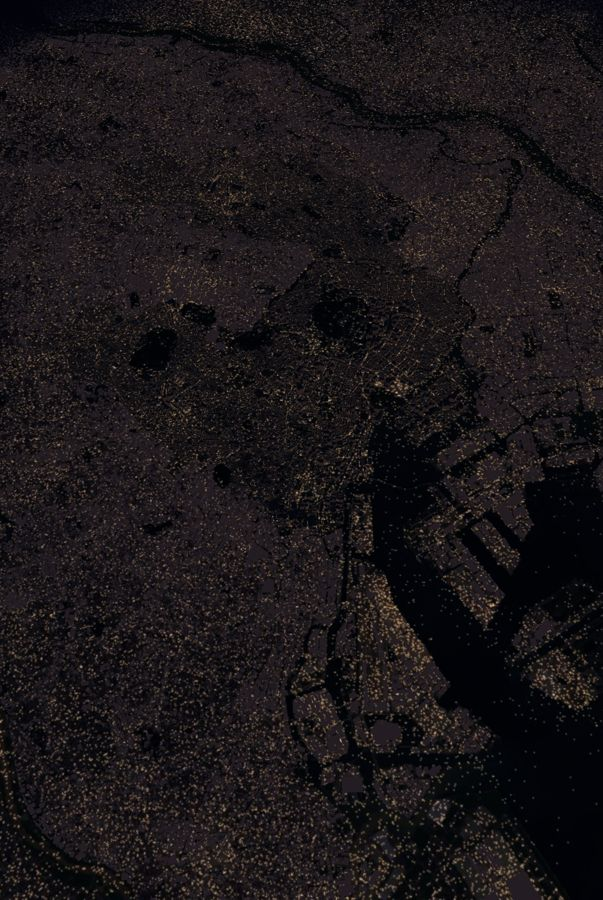
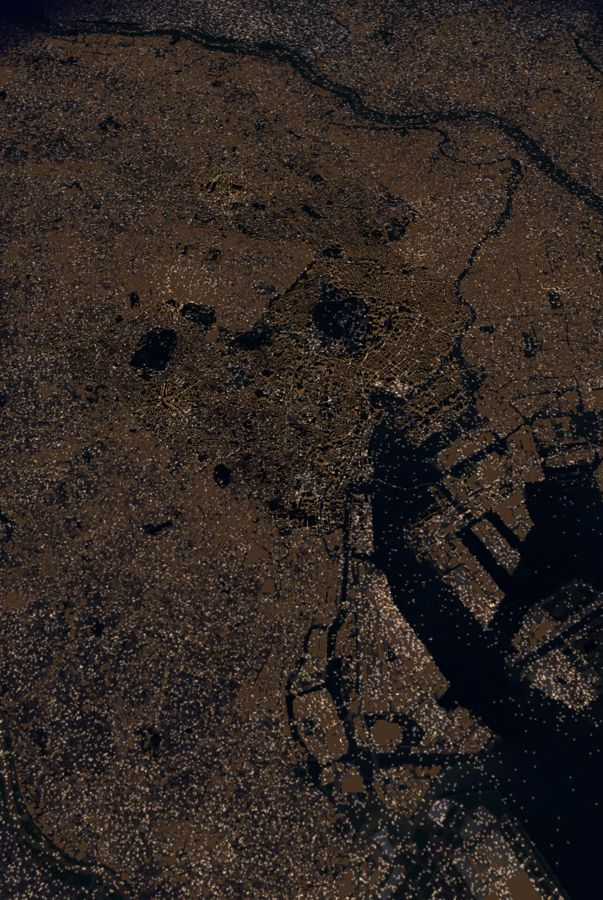
o-9 カメラが遠いほど窓の発光と地面を強め、外壁を暖色に寄せて俯瞰でも街の形が見えるようにする

diff --git a/App/Views/WideCityRenderer.swift b/App/Views/WideCityRenderer.swift
@@ -68,7 +68,8 @@ final class WideCityRenderer {
         for model in Self.models(in: loaded) {
             guard var component = model.model else { continue }
             let hasUV = component.mesh.contents.models.contains { $0.parts.contains { $0.textureCoordinates != nil } }
-            let material = hasUV ? windows : Self.plainMaterial
+            let material = hasUV ? windows : Self.plainMaterial(level: 0)
+            model.components.set(WideWallKind(hasUV: hasUV))
             component.materials = Array(repeating: material, count: max(component.materials.count, 1))
             model.model = component
         }
@@ -89,18 +90,50 @@ final class WideCityRenderer {
     /// 広域で使う外壁の種類（BuildingFacade のオフィス・商業以外の標準の外壁）
     private static let facade = BuildingFacade(style: .neutral, variant: 0)
 
+    /// 明るさの段階（WideCityBrightness）ごとの材質。段階が変わったときだけ作る
+    private var wallMaterials: [String: PhysicallyBasedMaterial] = [:]
+
+    /// 壁の材質。level 0 は詳細画面と同じ、1 は 23 区全体を見るとき。窓の材質がまだできていなければ nil
+    func wallMaterial(hasUV: Bool, level: Float) -> PhysicallyBasedMaterial? {
+        let key = "\(hasUV)-\(level)"
+        if let cached = wallMaterials[key] { return cached }
+        guard hasUV else {
+            let plain = Self.plainMaterial(level: level)
+            wallMaterials[key] = plain
+            return plain
+        }
+        guard var made = material else { return nil }
+        made.emissiveIntensity *= WideCityBrightness.mix(1, WideCityBrightness.farWindowGlow, level)
+        made.baseColor.tint = Self.wallTint(level: level)
+        wallMaterials[key] = made
+        return made
+    }
+
+    /// BuildingNightRenderer の夜の色（0.55, 0.64, 0.75）から、遠いほど暗い暖色に寄せた色。外壁の画像に掛ける
+    private static func wallTint(level: Float) -> UIColor {
+        let far = WideCityBrightness.farWallTint
+        return UIColor(red: CGFloat(WideCityBrightness.mix(nightTint.red, far.red, level)),
+                       green: CGFloat(WideCityBrightness.mix(nightTint.green, far.green, level)),
+                       blue: CGFloat(WideCityBrightness.mix(nightTint.blue, far.blue, level)), alpha: 1)
+    }
+
+    /// BuildingNightRenderer.facade が外壁の画像に掛けている夜の色
+    private static let nightTint = (red: Float(0.55), green: Float(0.64), blue: Float(0.75))
+
     /// UV の無い形（作り直していない区と LOD2）の材質。窓の画像は貼れないので、BuildingNightRenderer の外壁の色
-    /// （BuildingFacade の外壁 × BuildingNightRenderer の夜の色 0.55, 0.64, 0.75）と、窓明かりを平均したくらいの弱い暖色の光にする
-    private static var plainMaterial: PhysicallyBasedMaterial {
+    /// （BuildingFacade の外壁 × 夜の色）と、窓明かりを平均したくらいの弱い暖色の光にする
+    private static func plainMaterial(level: Float) -> PhysicallyBasedMaterial {
         var material = PhysicallyBasedMaterial()
         let wall = UIColor(cgColor: facade.wall)
         var r: CGFloat = 0, g: CGFloat = 0, b: CGFloat = 0
         wall.getRed(&r, green: &g, blue: &b, alpha: nil)
-        material.baseColor = .init(tint: UIColor(red: r * 0.55, green: g * 0.64, blue: b * 0.75, alpha: 1))
+        var tr: CGFloat = 0, tg: CGFloat = 0, tb: CGFloat = 0
+        wallTint(level: level).getRed(&tr, green: &tg, blue: &tb, alpha: nil)
+        material.baseColor = .init(tint: UIColor(red: r * tr, green: g * tg, blue: b * tb, alpha: 1))
         material.roughness = .init(floatLiteral: 0.85)
         material.metallic = .init(floatLiteral: 0)
         material.emissiveColor = .init(color: UIColor(red: 0.68, green: 0.47, blue: 0.23, alpha: 1))
-        material.emissiveIntensity = plainGlow
+        material.emissiveIntensity = plainGlow * WideCityBrightness.mix(1, WideCityBrightness.farPlainGlow, level)
         material.faceCulling = .none
         return material
     }

diff --git a/App/Views/WideCityBrightness.swift b/App/Views/WideCityBrightness.swift
@@ -1,0 +1,60 @@
+import RealityKit
+import SwiftUI
+
+/// カメラが遠いほど街を明るく見せる。近景は詳細画面と同じ見た目のまま、23 区全体を見るときは窓の発光・地面を強め、
+/// 窓の点がつぶれて見えなくなるぶん、外壁の色を窓の平均の色（暗い暖色）に寄せて、建物の塊が光って見えるようにする。
+/// 段階に分けて、段階が変わったときだけ材質の係数を書き換える（毎フレームは作り直さない）。
+@MainActor
+enum WideCityBrightness {
+    /// この距離（1 単位 = 100m）より近ければ詳細画面と同じ（level 0）。全体が入る距離で level 1
+    static let nearDistance: Float = 10
+    static let farDistance: Float = 300
+    private static let steps = 12
+    /// 全体を見るときの、窓の発光・地面の明るさの倍率。窓の画像は遠くで縮むと点が混ざって暗く見えるので、
+    /// UV の無い区（窓の平均の色で一様に光る）より大きくして、並んだときの明るさをそろえる
+    static let farWindowGlow: Float = 4.5
+    static let farPlainGlow: Float = 3
+    static let farGroundGlow: Float = 2
+    /// 全体を見るときに外壁の色を寄せる先（BuildingFacade の外壁に掛ける色。窓の暖色に近い）
+    static let farWallTint = (red: Float(1.0), green: Float(0.82), blue: Float(0.58))
+    static let groundName = "wideGround"
+
+    /// カメラの距離から段階（0 〜 steps）
+    static func step(cameraDistance: Float) -> Int {
+        let t = (cameraDistance - nearDistance) / (farDistance - nearDistance)
+        return Int((min(max(t, 0), 1) * Float(steps)).rounded())
+    }
+
+    static func level(step: Int) -> Float { Float(step) / Float(steps) }
+
+    /// 建物と地面の材質の係数を、その段階のものに書き換える
+    static func apply(step: Int, buildings: Entity, ground: Entity?) {
+        let t = level(step: step)
+        for model in WideCityRenderer.models(in: buildings) {
+            guard let kind = model.components[WideWallKind.self], var component = model.model,
+                  let material = WideCityRenderer.shared.wallMaterial(hasUV: kind.hasUV, level: t) else { continue }
+            component.materials = Array(repeating: material, count: max(component.materials.count, 1))
+            model.model = component
+        }
+        if let ground = ground as? ModelEntity, var component = ground.model,
+           var material = component.materials.first as? PhysicallyBasedMaterial {
+            material.emissiveIntensity = 1 + (farGroundGlow - 1) * t
+            component.materials = [material]
+            ground.model = component
+        }
+    }
+
+    /// 線形に近づける（a → b）
+    static func mix(_ a: Float, _ b: Float, _ t: Float) -> Float { a + (b - a) * t }
+}
+
+/// 建物の部品に付ける目印。壁の UV があれば窓の画像つきの材質、無ければ外壁だけの材質を使う
+struct WideWallKind: Component {
+    let hasUV: Bool
+}
+
+/// 画面ごとに、いまの明るさの段階を覚えておく（nil なら次に必ず書き換える）
+@MainActor
+final class WideCityBrightnessState {
+    var step: Int?
+}

diff --git a/App/Views/WideCityView.swift b/App/Views/WideCityView.swift
@@ -67,6 +67,7 @@ struct WideCityView: View {
     /// RealityView を作り終えたか。作り終えた後に画面を描き直させる（区が読み込み済みだと、全画面で真っ暗なままのことがあった）
     @State private var isMade = false
     @State private var pinSizer = WideCityPinSizer()
+    @State private var brightness = WideCityBrightnessState()
 
     var body: some View {
         RealityView { content in
@@ -104,6 +105,13 @@ struct WideCityView: View {
                 WideCityPins.update(in: root, contexts: contexts, predictions: predictions, scale: Self.scale)
                 pinSizer.selectedId = centered?.id
             }
+            // 遠いほど街を明るく。段階が変わったときだけ材質を書き換える
+            let step = WideCityBrightness.step(cameraDistance: camera.distance)
+            if step != brightness.step, let root = content.entities.first(where: { $0.name == Self.rootName }) {
+                brightness.step = step
+                WideCityBrightness.apply(step: step, buildings: lod.root,
+                                         ground: root.findEntity(named: WideCityBrightness.groundName))
+            }
             lod.update(east: Double(camera.target.x), north: Double(camera.target.y),
                        cameraDistance: camera.distance / Self.scale)
         }
@@ -114,6 +122,8 @@ struct WideCityView: View {
         .task {
             guard !isLoaded else { return }
             await lod.loadBoxes()
+            // 読み込んだ区は近景の材質なので、次の描き直しで今の距離の明るさにする
+            brightness.step = nil
             if let e = lod.extent {
                 camera.target = [Float(e.minEast + e.maxEast) / 2, Float(e.minNorth + e.maxNorth) / 2]
                 camera.distance = min(Float(max(e.maxEast - e.minEast, e.maxNorth - e.minNorth)) * Self.scale * 0.95,

diff --git a/App/Views/WideGroundRenderer.swift b/App/Views/WideGroundRenderer.swift
@@ -30,10 +30,17 @@ enum WideGroundRenderer {
             // 斜めから見ても街明かりの点がつぶれにくくする
             descriptor.maxAnisotropy = 16
         }
-        var material = UnlitMaterial()
-        // 夜の暗さと街明かりは画像に焼き込んであるので、照明に関係なくそのまま出す
-        material.color = .init(tint: .white, texture: .init(texture, sampler: sampler))
+        // 夜の暗さと街明かりは画像に焼き込んであるので、照明に関係なく画像のまま出す（自分で光る色として貼る）。
+        // 強さ 1 で詳細画面の遠くの地面（FarGroundRenderer）と同じ明るさ。遠くから見るときは WideCityBrightness が強める
+        var material = PhysicallyBasedMaterial()
+        material.baseColor = .init(tint: .black)
+        material.roughness = .init(floatLiteral: 1)
+        material.metallic = .init(floatLiteral: 0)
+        material.specular = .init(floatLiteral: 0)
+        material.emissiveColor = .init(texture: .init(texture, sampler: sampler))
+        material.emissiveIntensity = 1
         let ground = ModelEntity(mesh: mesh, materials: [material])
+        ground.name = WideCityBrightness.groundName
         let center = WideCity.localPosition(latitude: info.centerLatitude, longitude: info.centerLongitude)
         ground.position = [Float(center.east), 0, -Float(center.north)]
         return ground
